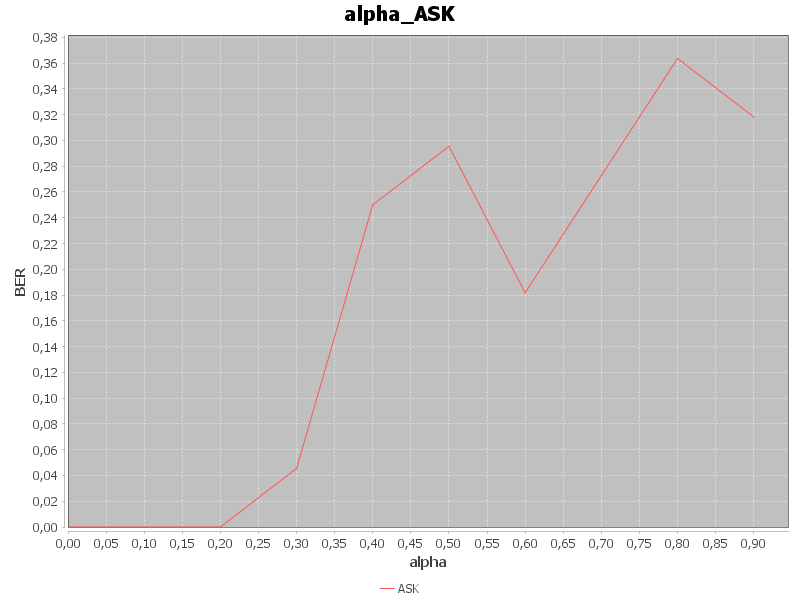
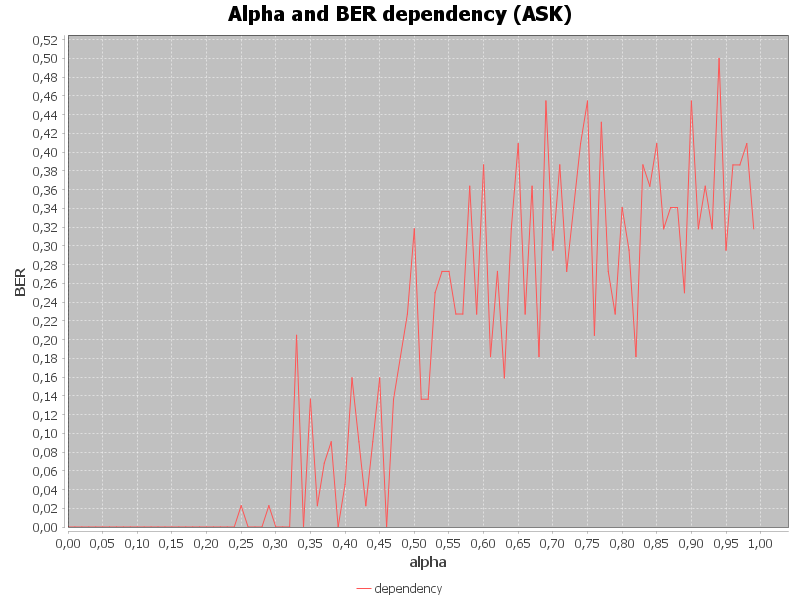
Create tests for noise and damp

diff --git a/src/main/java/org/example/Main.java b/src/main/java/org/example/Main.java
@@ -14,9 +14,9 @@ public class Main
     public static void main(String[] args)
     {
 //        zadanie1();
-//        zadanie2();
-//        zadanie3();
-        alphaBerTests();
+        zadanie2();
+        zadanie3();
+//        zadanie4();
     }
 
     public static void zadanie1()
@@ -43,109 +43,16 @@ public class Main
 
     public static void zadanie2()
     {
-        System.out.println("Original data:");
-        printBits(bits);
-
-        int[] encodedBits = TransmissionSystem.encode(bits);
-        System.out.println("Encoded data:");
-        printBits(encodedBits);
-
-        final String ASK = "ASK";
-        final String PSK = "PSK";
-        final String FSK = "FSK";
-        double[] modulationASK = TransmissionSystem.modulate(encodedBits, ASK);
-        double[] modulationPSK = TransmissionSystem.modulate(encodedBits, PSK);
-        double[] modulationFSK = TransmissionSystem.modulate(encodedBits, FSK);
-
-        double alpha = 6; // alpha = [0 : 1]
-        double[] noise = TransmissionSystem.generateNoise(modulationASK.length, alpha);
-        double[] noisedASK = TransmissionSystem.addNoiseToSignal(modulationASK, noise);
-        double[] noisedPSK = TransmissionSystem.addNoiseToSignal(modulationPSK, noise);
-        double[] noisedFSK = TransmissionSystem.addNoiseToSignal(modulationFSK, noise);
-
-        int[] demodulatedNoisedASK = TransmissionSystem.demodulate(noisedASK, ASK);
-        int[] demodulatedNoisedPSK = TransmissionSystem.demodulate(noisedPSK, PSK);
-        int[] demodulatedNoisedFSK = TransmissionSystem.demodulate(noisedFSK, FSK);
-
-        int[] decodedNoisedASK = TransmissionSystem.decode(demodulatedNoisedASK);
-        int[] decodedNoisedPSK = TransmissionSystem.decode(demodulatedNoisedPSK);
-        int[] decodedNoisedFSK = TransmissionSystem.decode(demodulatedNoisedFSK);
-
-        double BER_ASK = TransmissionSystem.compareBitVectors(bits, decodedNoisedASK);
-        double BER_PSK = TransmissionSystem.compareBitVectors(bits, decodedNoisedPSK);
-        double BER_FSK = TransmissionSystem.compareBitVectors(bits, decodedNoisedFSK);
-        System.out.println("BER ASK: " + BER_ASK);
-        System.out.println("BER PSK: " + BER_PSK);
-        System.out.println("BER FSK: " + BER_FSK);
-
-        System.out.println("Decoded noised ASK");
-        printBits(decodedNoisedASK);
-        System.out.println("Decoded noised PSK");
-        printBits(decodedNoisedPSK);
-        System.out.println("Decoded noised FSK");
-        printBits(decodedNoisedFSK);
-    }
-
-    public static void zadanie3()
-    {
-        System.out.println("Original data:");
-        printBits(bits);
-
-        int[] encodedBits = TransmissionSystem.encode(bits);
-        System.out.println("Encoded data:");
-        printBits(encodedBits);
-
-        final String ASK = "ASK";
-        final String PSK = "PSK";
-        final String FSK = "FSK";
-
-        double[] modulationASK = TransmissionSystem.modulate(encodedBits, ASK);
-        double[] modulationPSK = TransmissionSystem.modulate(encodedBits, PSK);
-        double[] modulationFSK = TransmissionSystem.modulate(encodedBits, FSK);
-
-        double beta = 10; // beta = [0 : 10]
-        double[] damp = TransmissionSystem.generateDamping(modulationASK.length, beta);
-        double[] dampedASK = TransmissionSystem.addDampToSignal(modulationASK, damp);
-        double[] dampedPSK = TransmissionSystem.addDampToSignal(modulationPSK, damp);
-        double[] dampedFSK = TransmissionSystem.addDampToSignal(modulationFSK, damp);
-
-        int[] demodulatedDampedASK = TransmissionSystem.demodulate(dampedASK, ASK);
-        int[] demodulatedDampedPSK = TransmissionSystem.demodulate(dampedPSK, PSK);
-        int[] demodulatedDampedFSK = TransmissionSystem.demodulate(dampedFSK, FSK);
-
-        int[] decodedDampedASK = TransmissionSystem.decode(demodulatedDampedASK);
-        int[] decodedDampedPSK = TransmissionSystem.decode(demodulatedDampedPSK);
-        int[] decodedDampedFSK = TransmissionSystem.decode(demodulatedDampedFSK);
-
-        double BER_ASK = TransmissionSystem.compareBitVectors(bits, decodedDampedASK);
-        double BER_PSK = TransmissionSystem.compareBitVectors(bits, decodedDampedPSK);
-        double BER_FSK = TransmissionSystem.compareBitVectors(bits, decodedDampedFSK);
-        System.out.println("BER ASK: " + BER_ASK);
-        System.out.println("BER PSK: " + BER_PSK);
-        System.out.println("BER FSK: " + BER_FSK);
-
-        System.out.println("Decoded noised ASK");
-        printBits(decodedDampedASK);
-        System.out.println("Decoded noised PSK");
-        printBits(decodedDampedPSK);
-        System.out.println("Decoded noised FSK");
-        printBits(decodedDampedFSK);
-    }
-
-    public static void zadanie4()
-    {
-
-    }
-
-    public static void alphaBerTests() {
         int[] encodedBits = TransmissionSystem.encode(bits);
 
-        final String ASK = "ASK";
-        final String PSK = "PSK";
-        final String FSK = "FSK";
         final String[] modulationTypes = {"ASK", "PSK", "FSK"};
 
-        double[] alpha = {0, 0.1, 0.2, 0.3, 0.4, 0.5, 0.6, 0.7, 0.8, 0.9};
+        double step = 0.01;
+        double[] alpha = new double[(int) Math.floor(1 / step)];
+        alpha[0] = 0;
+        for (int i = 1; i < alpha.length; i++)
+            alpha[i] = alpha[i - 1] + step;
+
         double[][] BER = new double[3][alpha.length];
         double[][] modulations = new double[3][];
         double[][] noisedModulations = new double[3][];
@@ -166,9 +73,52 @@ public class Main
             }
         }
 
-        PlotDrawer.compareDoubles(alpha, BER[0], alpha.length, "alpha_ASK", "ASK");
-        PlotDrawer.compareDoubles(alpha, BER[1], alpha.length, "alpha_PSK", "PSK");
-        PlotDrawer.compareDoubles(alpha, BER[2], alpha.length, "alpha_FSK", "FSK");
+        PlotDrawer.compareDoubles(alpha, BER[0], alpha.length, "Alpha and BER dependency (ASK)", "alpha_ASK");
+        PlotDrawer.compareDoubles(alpha, BER[1], alpha.length, "Alpha and BER dependency (PSK)", "alpha_PSK");
+        PlotDrawer.compareDoubles(alpha, BER[2], alpha.length, "Alpha and BER dependency (FSK)", "alpha_FSK");
+    }
+
+    public static void zadanie3()
+    {
+        int[] encodedBits = TransmissionSystem.encode(bits);
+
+        final String[] modulationTypes = {"ASK", "PSK", "FSK"};
+
+        double step = 0.05;
+        int maxValue = 100;
+        double[] beta = new double[(int) Math.floor(maxValue / step)];
+        beta[0] = 0;
+        for (int i = 1; i < beta.length; i++)
+            beta[i] = beta[i - 1] + step;
+
+        double[][] BER = new double[3][beta.length];
+        double[][] modulations = new double[3][];
+        double[][] noisedModulations = new double[3][];
+        int[][] demodulations = new int[3][];
+        int[][] decodedData = new int[3][];
+
+        int modulationLength = (TransmissionSystem.modulate(bits, "ASK")).length;
+        for (int i = 0; i < beta.length; i++)
+        {
+            double[] noise = TransmissionSystem.generateDamping(modulationLength, beta[i]);
+            for (int j = 0; j < 3; j++)
+            {
+                modulations[j] = TransmissionSystem.modulate(encodedBits, modulationTypes[j]);
+                noisedModulations[j] = TransmissionSystem.addDampToSignal(modulations[j], noise);
+                demodulations[j] = TransmissionSystem.demodulate(noisedModulations[j], modulationTypes[j]);
+                decodedData[j] = TransmissionSystem.decode(demodulations[j]);
+                BER[j][i] = TransmissionSystem.compareBitVectors(bits, decodedData[j]);
+            }
+        }
+
+        PlotDrawer.compareDoubles(beta, BER[0], beta.length, "Beta and BER dependency (ASK)", "beta_ASK");
+        PlotDrawer.compareDoubles(beta, BER[1], beta.length, "Beta and BER dependency (PSK)", "beta_PSK");
+        PlotDrawer.compareDoubles(beta, BER[2], beta.length, "Beta and BER dependency (FSK)", "beta_FSK");
+    }
+
+    public static void zadanie4()
+    {
+
     }
 
     public static void printBits(int[] data)

diff --git a/src/main/java/org/example/utils/PlotDrawer.java b/src/main/java/org/example/utils/PlotDrawer.java
@@ -49,14 +49,14 @@ public class PlotDrawer extends JFrame
         saveChartAsPNG(chart, name, width, height);
     }
 
-    public PlotDrawer(double[] data1, double[] data2, int N, String filename, String modulationType)
+    public PlotDrawer(double[] data1,double[] data2, int N, String plotName, String filename)
     {
         super(filename);
 
         int width = 800;
         int height = 600;
 
-        XYSeries series = new XYSeries(modulationType);
+        XYSeries series = new XYSeries("dependency");
 
         for (int i = 0; i < N; i++)
             series.add(data1[i], data2[i]);
@@ -64,7 +64,7 @@ public class PlotDrawer extends JFrame
         XYSeriesCollection dataset = new XYSeriesCollection();
         dataset.addSeries(series);
 
-        JFreeChart chart = ChartFactory.createXYLineChart(filename, "alpha", "BER", dataset);
+        JFreeChart chart = ChartFactory.createXYLineChart(plotName, "alpha", "BER", dataset);
 
         chart.setBackgroundPaint(Color.white);
         ChartPanel chartPanel = new ChartPanel(chart);
@@ -249,8 +249,8 @@ public class PlotDrawer extends JFrame
         SwingUtilities.invokeLater(() -> new PlotDrawer(data1, data2, N, name));
     }
 
-    public static void compareDoubles(double[] data1,double[] data2, int N, String name, String modulationType)
+    public static void compareDoubles(double[] data1,double[] data2, int N, String plotName, String filename)
     {
-        SwingUtilities.invokeLater(() -> new PlotDrawer(data1, data2, N, name, modulationType));
+        SwingUtilities.invokeLater(() -> new PlotDrawer(data1, data2, N, plotName, filename));
     }
 }

diff --git a/src/main/java/org/example/TransmissionSystem.java b/src/main/java/org/example/TransmissionSystem.java
@@ -127,7 +127,7 @@ public class TransmissionSystem
         Random rand = new Random();
 
         for (int i = 0; i < length; i++)
-            noise[i] = rand.nextDouble(-4, 4) * alpha;
+            noise[i] = rand.nextDouble(-10, 10) * alpha;
 
         return noise;
     }
@@ -135,7 +135,6 @@ public class TransmissionSystem
     public static double[] generateDamping(int length, double beta)
     {
         double[] damp = new double[length];
-        Random rand = new Random();
 
         for (int i = 0; i < length; i++)
         {
